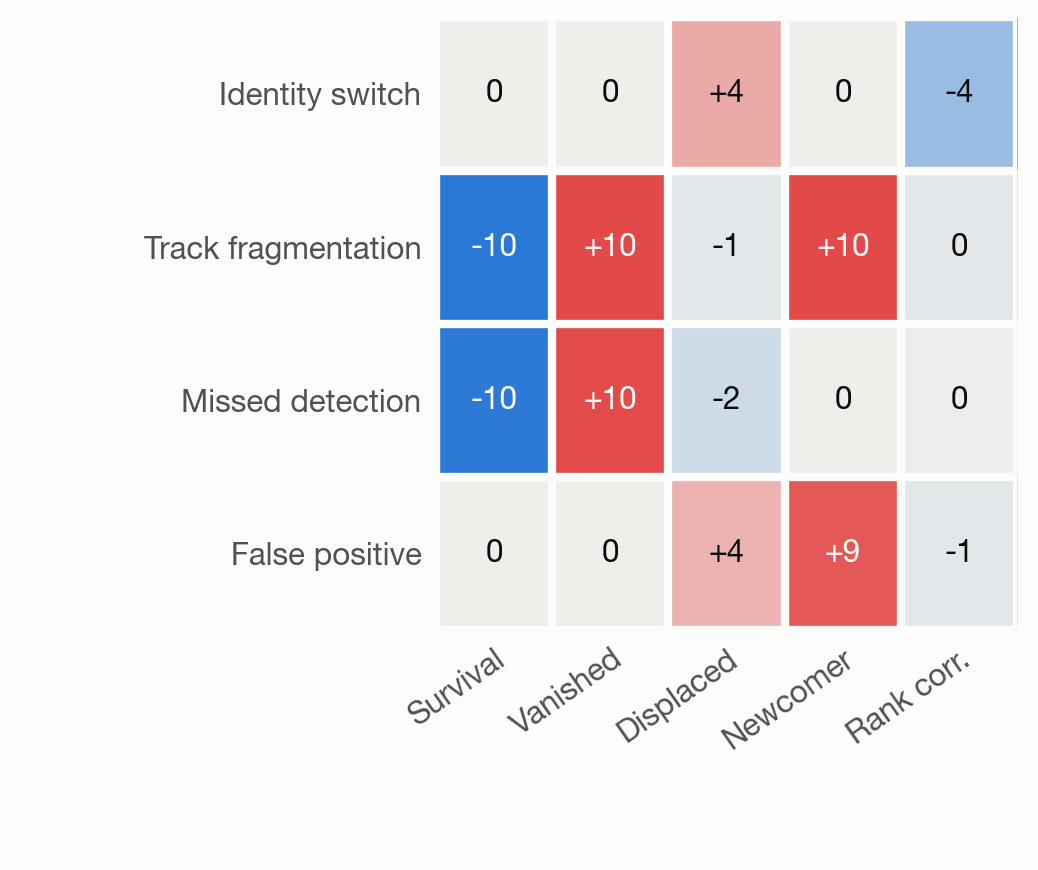
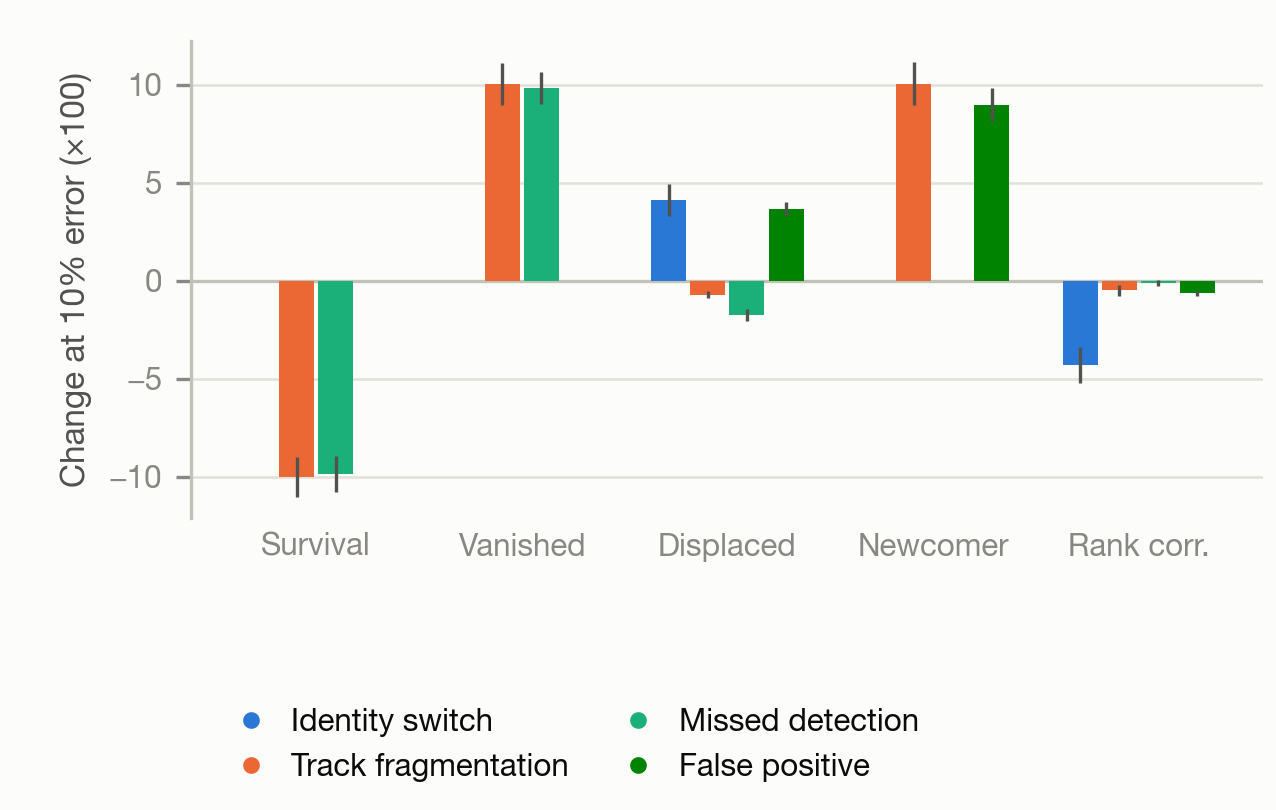
Figure 1c as grouped bars (change per channel at 10% error, one bar per error type); table kept as c_fingerprint_table

diff --git a/scripts/make_fig1.py b/scripts/make_fig1.py
@@ -139,14 +139,48 @@ def b_errors():
 
 # --------------------------------------------------------------------------- c: fingerprint with survival
 
-def c_fingerprint():
+COMPS = [("d_survival", "Survival"), ("d_vanished", "Vanished"), ("d_displaced", "Displaced"),
+         ("d_newcomer", "Newcomer"), ("d_rc", "Rank corr.")]
+
+
+def _sim10():
     df = mp._load_sweep("slab")
     if df is None:
-        return
+        return None
     sim = df[(df.src == "sim") & (df.rate == 0.10)].copy()
     sim["d_survival"] = sim.survival - 1.0
-    comps = [("d_survival", "Survival"), ("d_vanished", "Vanished"), ("d_displaced", "Displaced"),
-             ("d_newcomer", "Newcomer"), ("d_rc", "Rank corr.")]
+    return sim
+
+
+def c_fingerprint():
+    """Grouped bars: for each channel, the change at 10% error, one bar per error type."""
+    sim = _sim10()
+    if sim is None:
+        return
+    order = fs.ORDER4
+    fig, ax = plt.subplots(figsize=(fs.DOUBLE * 0.6, 2.7), gridspec_kw=dict(left=0.15, right=0.99, top=0.95, bottom=0.36))
+    w = 0.19
+    for i, t in enumerate(order):
+        g = sim[sim.error == t]
+        means = [100 * g[c].mean() for c, _ in COMPS]
+        sds = [100 * g[c].std() for c, _ in COMPS]
+        x = np.arange(len(COMPS)) + (i - 1.5) * w
+        ax.bar(x, means, width=w - 0.02, color=fs.SERIES[t], lw=0, zorder=3)
+        ax.errorbar(x, means, yerr=sds, fmt="none", ecolor=fs.INK2, elinewidth=0.8, capsize=0, zorder=4)
+    ax.axhline(0, color=fs.AXIS, lw=0.8)
+    ax.set_xticks(range(len(COMPS))); ax.set_xticklabels([n for _, n in COMPS])
+    ax.set_ylabel("Change at 10% error (×100)"); fs.grid(ax)
+    ax.spines["bottom"].set_visible(False); ax.tick_params(axis="x", length=0)
+    fig.legend(handles=[fs.dot_handle(fs.LABELS[t], fs.SERIES[t]) for t in order], loc="lower left",
+               bbox_to_anchor=(0.15, 0.0), ncol=2, handletextpad=0.3, columnspacing=1.2)
+    fs.save(fig, OUT / "c_fingerprint")
+
+
+def c_fingerprint_table():
+    sim = _sim10()
+    if sim is None:
+        return
+    comps = COMPS
     order = fs.ORDER4
     M = np.array([[sim[sim.error == k][c].mean() * 100 for c, _ in comps] for k in order])
     vmax = np.nanmax(np.abs(M)); norm = TwoSlopeNorm(vmin=-vmax, vcenter=0.0, vmax=vmax)
@@ -164,7 +198,7 @@ def c_fingerprint():
             v = M[i, j]; rgba = fs.DIVERGING(norm(v)); lum = 0.2126 * rgba[0] + 0.7152 * rgba[1] + 0.0722 * rgba[2]
             ax.text(j, i, f"{v:+.0f}" if abs(v) >= 0.5 else "0", ha="center", va="center", fontsize=7.5,
                     color="#ffffff" if lum < 0.55 else fs.INK)
-    fs.save(fig, OUT / "c_fingerprint")
+    fs.save(fig, OUT / "c_fingerprint_table")
 
 
 # --------------------------------------------------------------------------- d: inversion
@@ -181,7 +215,7 @@ def d_inversion():
 
 def main() -> int:
     OUT.mkdir(parents=True, exist_ok=True)
-    a_metrics(); b_errors(); c_fingerprint(); d_inversion()
+    a_metrics(); b_errors(); c_fingerprint(); c_fingerprint_table(); d_inversion()
     return 0
 
 
